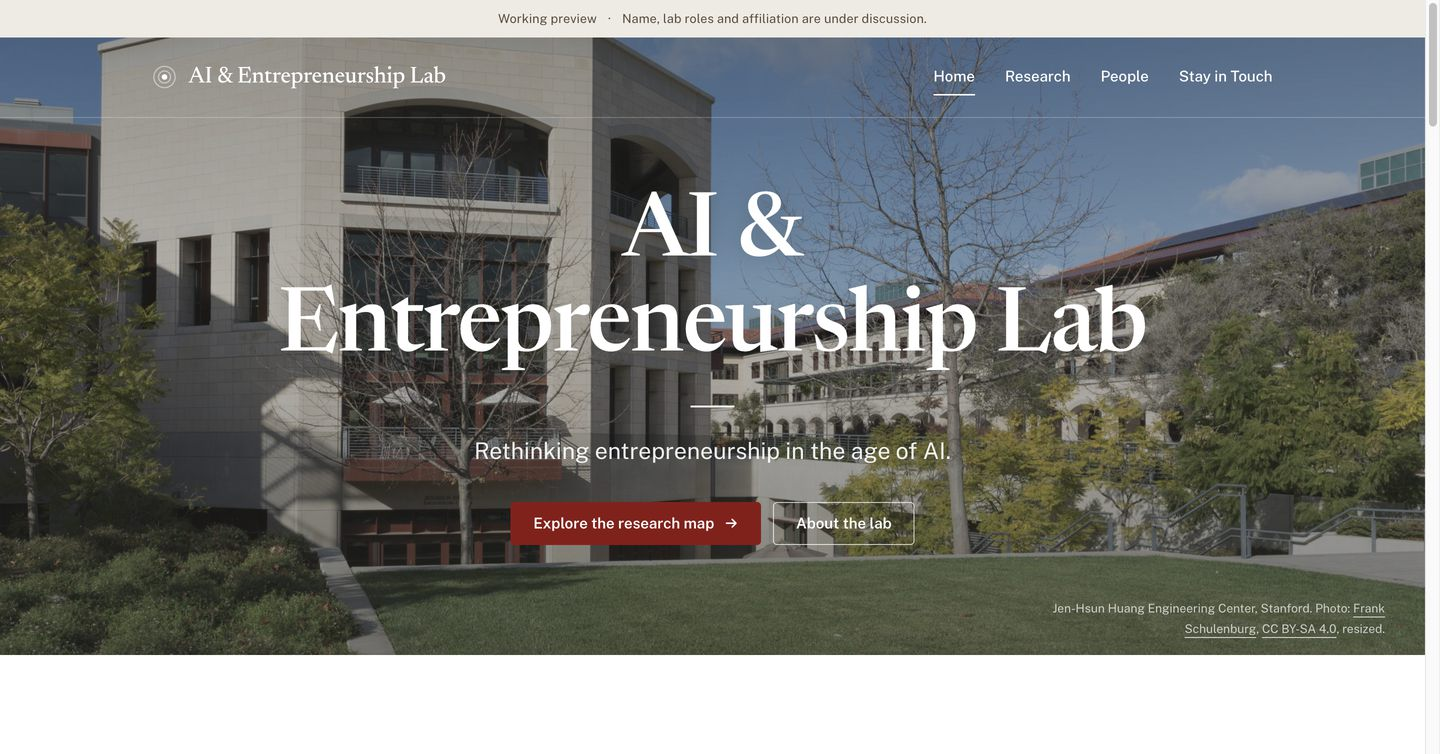
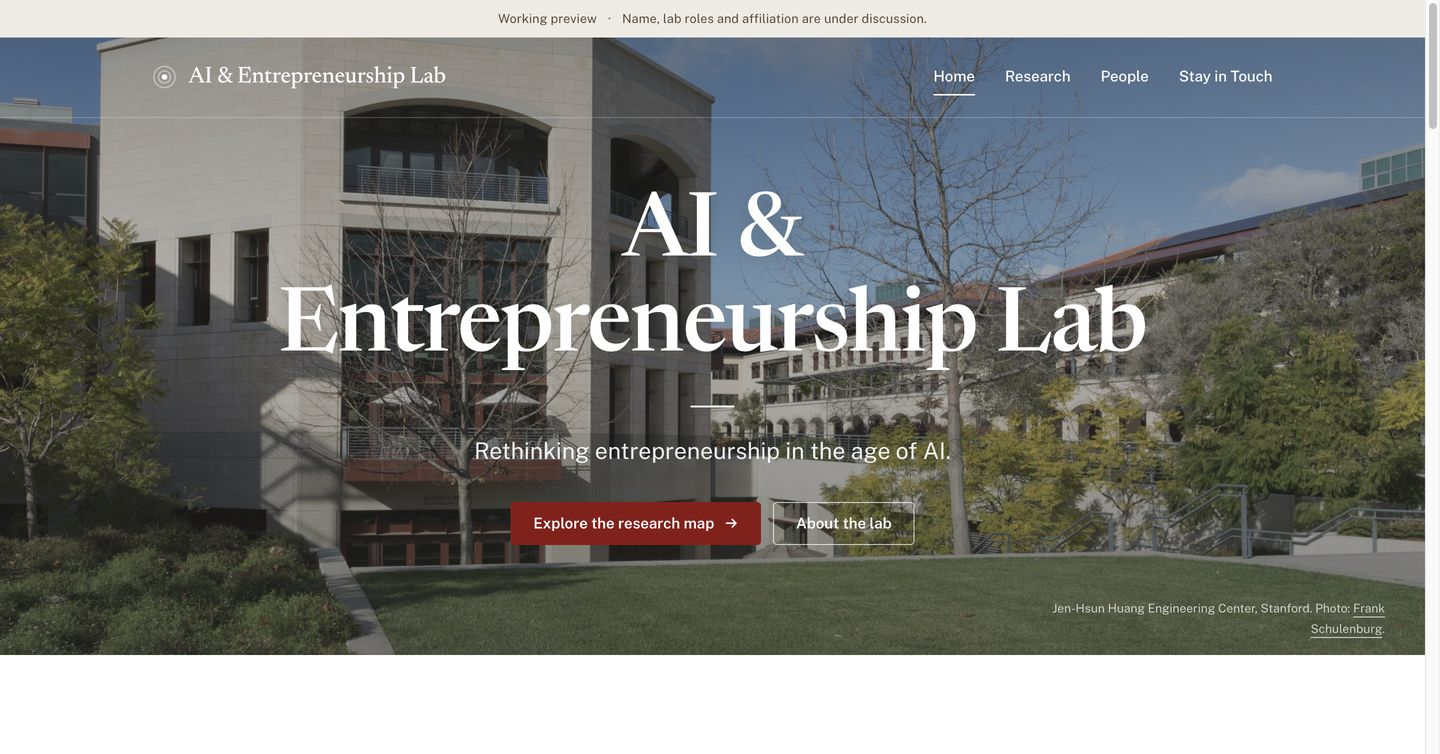
Trim homepage credits
- Remove the footer credits line
- Shorten the hero photo credit to the photographer's name, linked to the
  Wikimedia Commons page that states the CC BY-SA 4.0 licence
- Refresh the homepage preview screenshot

Changed region(s): [[0.8125, 0.8236, 0.9688, 0.8541], [0.0, 0.4881, 0.0312, 0.6101]]

diff --git a/index.html b/index.html
@@ -38,7 +38,7 @@
           <a class="btn btn-ghost" href="#about">About the lab</a>
         </div>
       </div>
-      <p class="hero-credit">Jen-Hsun Huang Engineering Center, Stanford. Photo: <a href="https://commons.wikimedia.org/wiki/File:Jen-Hsun_Huang_Engineering_Center_in_2016.jpg">Frank Schulenburg</a>, <a href="https://creativecommons.org/licenses/by-sa/4.0/">CC BY-SA 4.0</a>, resized.</p>
+      <p class="hero-credit">Jen-Hsun Huang Engineering Center, Stanford. Photo: <a href="https://commons.wikimedia.org/wiki/File:Jen-Hsun_Huang_Engineering_Center_in_2016.jpg">Frank Schulenburg</a>.</p>
     </section>
 
     <section class="section" id="about" aria-labelledby="about-title">
@@ -161,7 +161,6 @@
     <div class="footer-inner">
       <div><strong>AI &amp; Entrepreneurship Lab</strong><p>Working concept · October 2026</p></div>
       <p class="footer-note">Local draft for discussion.<br>Not an official lab launch.</p>
-      <p class="footer-credits">Hero photograph: Jen-Hsun Huang Engineering Center by Frank Schulenburg, CC BY-SA 4.0, via Wikimedia Commons. Map boundaries: Natural Earth, via world-atlas. Typefaces: Newsreader and Public Sans, SIL Open Font License. Full credits are in docs/SOURCES.md.</p>
     </div>
   </footer>
 

diff --git a/styles.css b/styles.css
@@ -204,7 +204,6 @@ nav[aria-label="Main navigation"] a[aria-current] { color: var(--cardinal); bord
 .footer-inner { max-width: var(--max); margin: 0 auto; padding: 40px var(--gutter) 44px; display: grid; grid-template-columns: minmax(0, 1fr) auto; gap: 20px 48px; align-items: end; }
 .site-footer strong { display: block; font: 500 20px/1.2 var(--serif); color: var(--ink); margin-bottom: 6px; }
 .footer-note { text-align: right; }
-.footer-credits { grid-column: 1 / -1; padding-top: 20px; border-top: 1px solid var(--line); font-size: 12.5px; line-height: 1.6; color: var(--stone); }
 
 /* Page heading used by Research, Map and Uganda pages */
 .page-hero { position: relative; background: var(--warm); overflow: hidden; border-bottom: 1px solid var(--line); }

diff --git a/docs/SOURCES.md b/docs/SOURCES.md
@@ -43,7 +43,7 @@ Photo sources are credited in the pages. The inspected source pages did not iden
 - License: [CC BY-SA 4.0](https://creativecommons.org/licenses/by-sa/4.0/). Attribution is required. The resized copies here are shared under the same license.
 - Original: 5247 × 3498 pixels, SHA-1 `e383f675520e94b29523515c9326bf4e65fe4f3a` (matches the Commons record), downloaded October 30, 2026.
[1 lines of base64/hex data omitted]
-- The credit is shown in the homepage hero and footer. Keep it there.
+- The credit is shown in the homepage hero as "Photo: Frank Schulenburg", linked to the Wikimedia Commons file page, which states the licence and the original. CC BY-SA 4.0 allows attribution through a link to a page with that information. Keep the name and the link.
 
 ## People photographs
 
